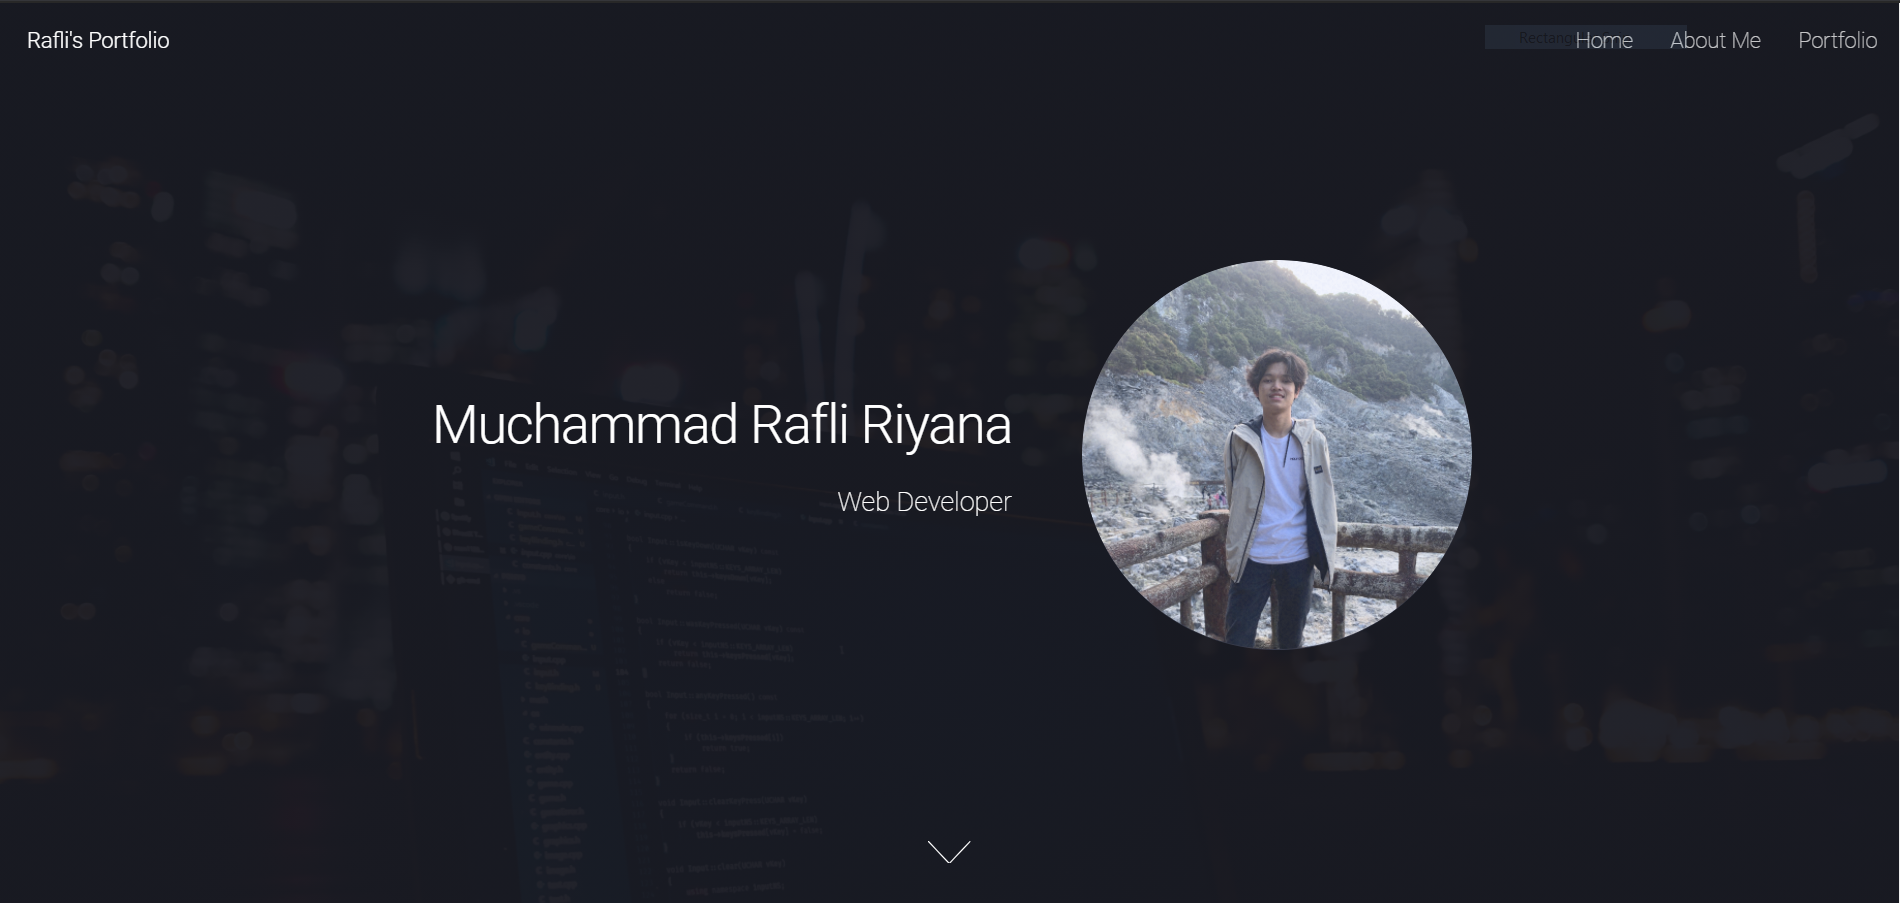
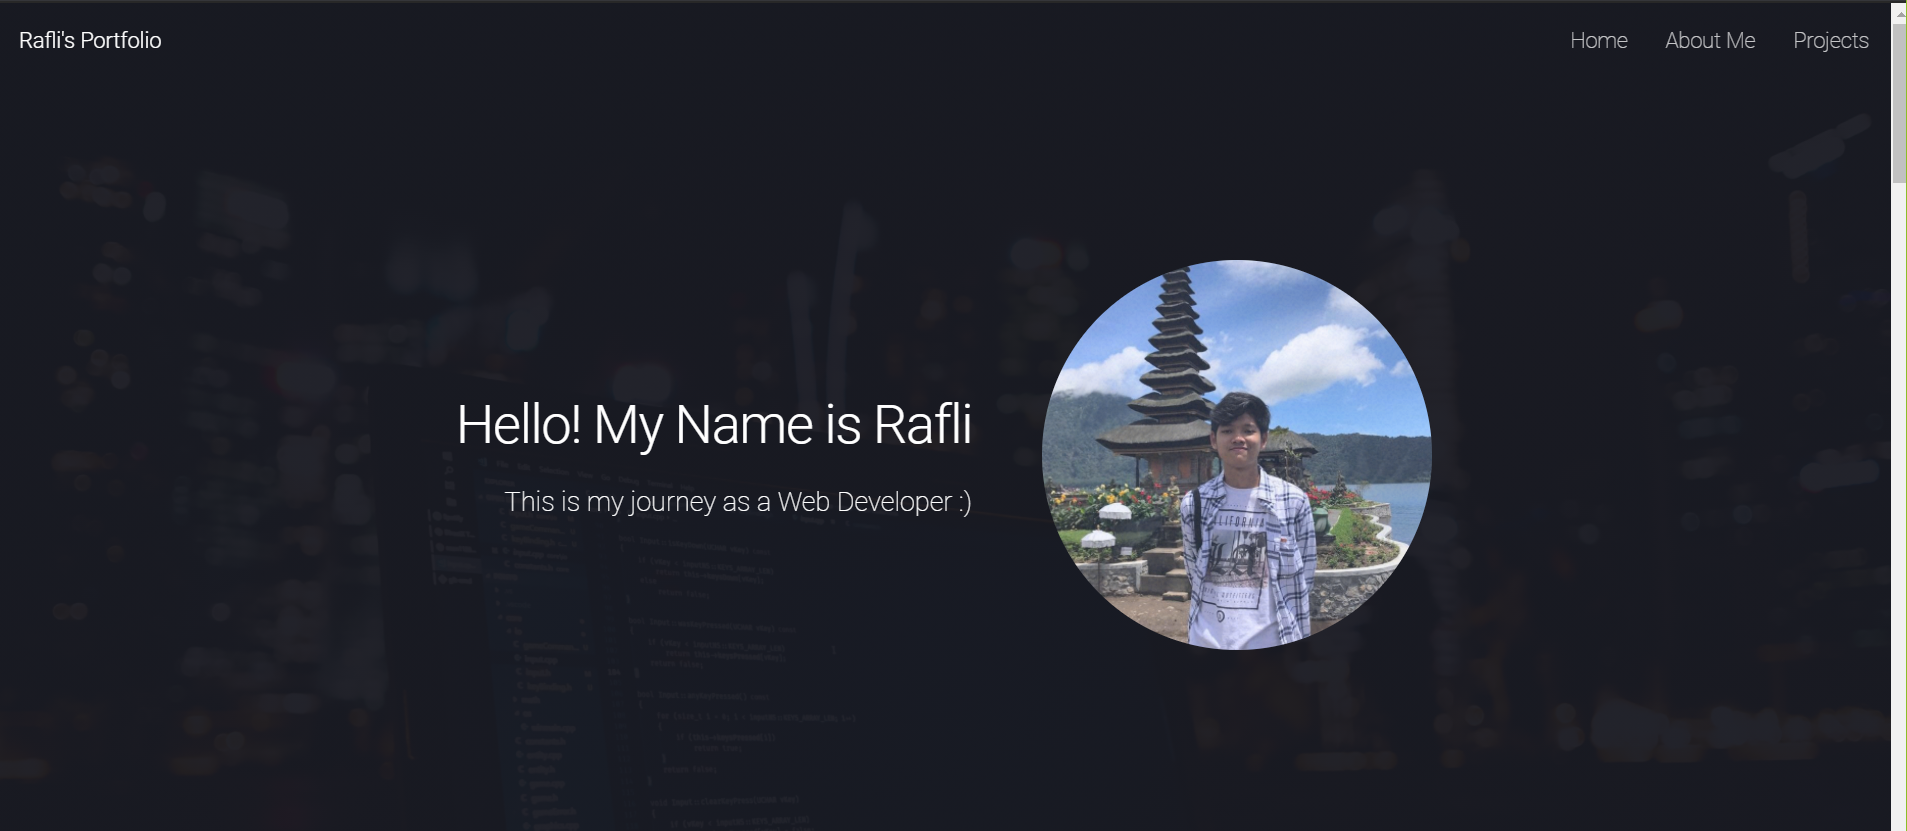
edit + add project 3

diff --git a/index.html b/index.html
@@ -37,11 +37,11 @@
       <section id="banner">
         <div class="content">
           <header>
-            <h2>Muchammad Rafli Riyana</h2>
-            <p>Web Developer</p>
+            <h2>Halo! Nama saya Rafli</h2>
+            <p>Ini perjalanan saya sebagai seorang Web Developer :)</p>
           </header>
           <span class="image"
-            ><img src="images/portraitRafli.jpg" alt=""
+            ><img src="images/portraitRafli1.jpeg" alt=""
           /></span>
         </div>
         <a href="#aboutMe" class="goto-next scrolly">Next</a>
@@ -62,15 +62,16 @@
               </div>
               <div class="col-4 col-12-medium">
                 <p>
-                  Rafli, seorang mahasiswa jurusan Sistem Informasi, yang baru
-                  saja memulai perjalanannya sebagai seorang developer dan masih
-                  perlu banyak belajar.
+                  Rafli, seorang mahasiswa jurusan Sistem Informasi, yang sedang
+                  menempuh perjalanan sebagai seorang Web Developer. Ia selalu
+                  berusaha untuk mengembangkan kemampuannya baik dalam hal
+                  teknis maupun non-teknis.
                 </p>
               </div>
               <div class="col-4 col-12-medium">
                 <p>
-                  Kesukaannya terhadap coding menjadi motivasi untuk selalu
-                  bekerja keras dan tidak pernah menyerah.
+                  Kesukaannya terhadap pemrograman menjadi motivasi Rafli untuk
+                  selalu bekerja keras dan tidak pernah menyerah.
                 </p>
               </div>
             </div>
@@ -99,6 +100,7 @@
               <a
                 href="https://github.com/mraflir/mraflir.github.io"
                 class="button"
+                target="_blank"
                 >Learn More</a
               >
             </li>
@@ -109,32 +111,69 @@
 
       <!-- Project 2 -->
       <section id="icon" class="spotlight style3 left">
-        <span class="image fit main"><img src="images/icon.PNG" alt="" /></span>
+        <span class="image fit main"><img src="images/icon.jpg" alt="" /></span>
         <div class="content">
           <header>
             <h1>Project 2</h1>
-            <h2>landing page ICON ISE! 2020</h2>
+            <h2>Landing Page ICON ISE! 2020</h2>
           </header>
           <p>
-            ISE! merupakan singkatan dari Information Systems Expo yang
-            merupakan event tahunan yang diselenggarakan oleh Departemen Sistem
-            Informasi Institut Teknologi Sepuluh Nopember Surabaya dalam rangka
-            memperkenalkan Departemen Sistem Informasi ITS kepada masyarakat
-            luas
+            ISE! merupakan event tahunan yang diselenggarakan oleh Departemen
+            Sistem Informasi ITS Surabaya dalam rangka memperkenalkan Departemen
+            Sistem Informasi ITS kepada masyarakat luas. ICON sendiri merupakan
+            salah satu sub-event dari ISE! dan ICON membutuhkan landing page
+            sebagai salah satu dari kebutuhan brandingnya.
           </p>
           <ul class="actions">
             <li>
-              <a href="https://ise-2020-icon.netlify.app/" class="button"
+              <a
+                href="https://ise-2020-icon.netlify.app/"
+                class="button"
+                target="_blank"
                 >Learn More</a
               >
             </li>
           </ul>
         </div>
-        <a href="#three" class="goto-next scrolly">Next</a>
+        <a href="#latihID" class="goto-next scrolly">Next</a>
       </section>
 
       <!-- Project 3 -->
-      <section id="three" class="spotlight style4 right">
+      <section id="latihID" class="spotlight style1 right">
+        <span class="image fit main"
+          ><img src="images/latihid.png" alt=""
+        /></span>
+        <div class="content">
+          <header>
+            <h1>Project 3</h1>
+            <h3>LatihID's Intern Applicant Case Study</h3>
+          </header>
+          <p>
+            LatihID merupakan platform pembelajaran online & gratis untuk UMKM.
+            Pada Januari 2021, LatihID membuka kesempatan magang dan saya
+            mengajukan untuk menjadi Full Stack Web Developer. Saat masuk ke
+            tahap Study Case saya diminta untuk mereplika ulang Homepage dari
+            LatihID serta membuat database yang mendukung dengan MySql. Singkat
+            cerita saya menggunakan framework PHP Laravel untuk backend dan juga
+            Bahasa dasar pemograman web seperti HTML, CSS, dan Javascript
+            beserta library nya seperti Bootstrap.
+          </p>
+          <ul class="actions">
+            <li>
+              <a
+                href="https://github.com/mraflir/latihID"
+                class="button"
+                target="_blank"
+                >Learn More</a
+              >
+            </li>
+          </ul>
+        </div>
+        <a href="#four" class="goto-next scrolly">Next</a>
+      </section>
+
+      <!-- Project 4 -->
+      <section id="four" class="spotlight style2 left">
         <span class="image fit main bottom"
           ><img src="images/wait.jpg" alt=""
         /></span>
@@ -149,23 +188,24 @@
       <!-- Footer -->
       <footer id="footer">
         <ul class="icons">
-          <li>
+          <!-- <li>
             <a href="#" class="icon brands alt fa-linkedin-in"
               ><span class="label">LinkedIn</span></a
             >
-          </li>
+          </li> -->
           <li>
             <a
               href="https://github.com/mraflir"
               class="icon brands alt fa-github"
+              target="_blank"
               ><span class="label">GitHub</span></a
             >
           </li>
-          <li>
+          <!-- <li>
             <a href="#" class="icon solid alt fa-envelope"
               ><span class="label">Email</span></a
             >
-          </li>
+          </li> -->
         </ul>
         <ul class="copyright">
           <li>&copy; M Rafli Riyana. All rights reserved.</li>

diff --git a/README.md b/README.md
@@ -1,4 +1,3 @@
 # mraflir.github.io
 
-portofolio pertama, masih banyak kekurangan,
-akan terus dikembangkan.
+my first portfolio :-D
